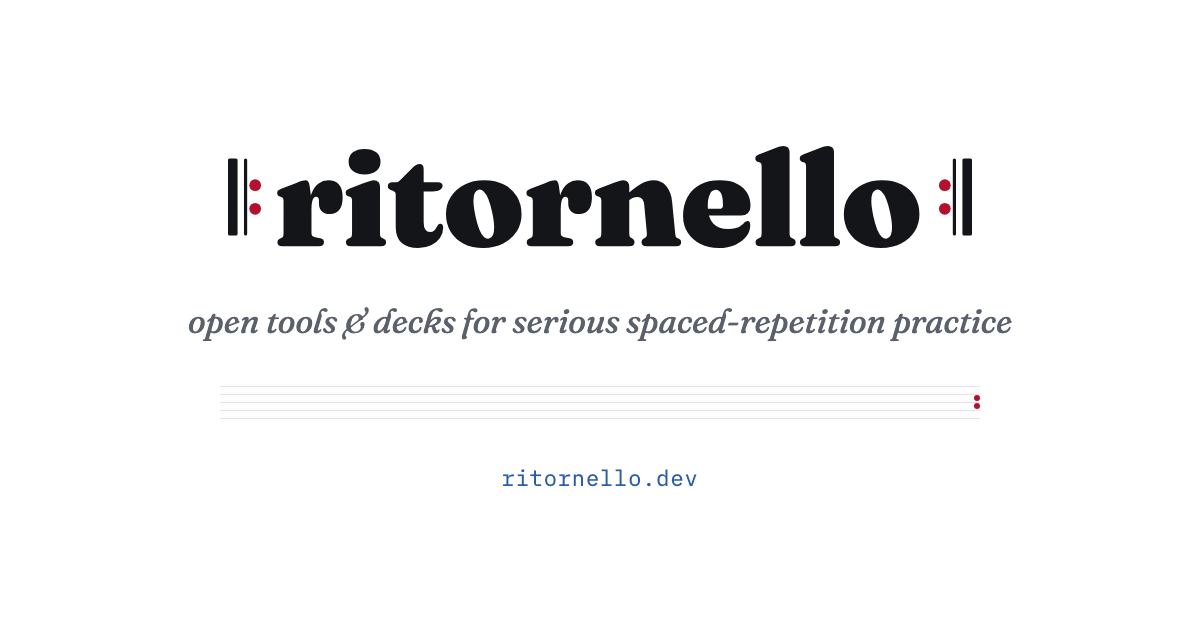
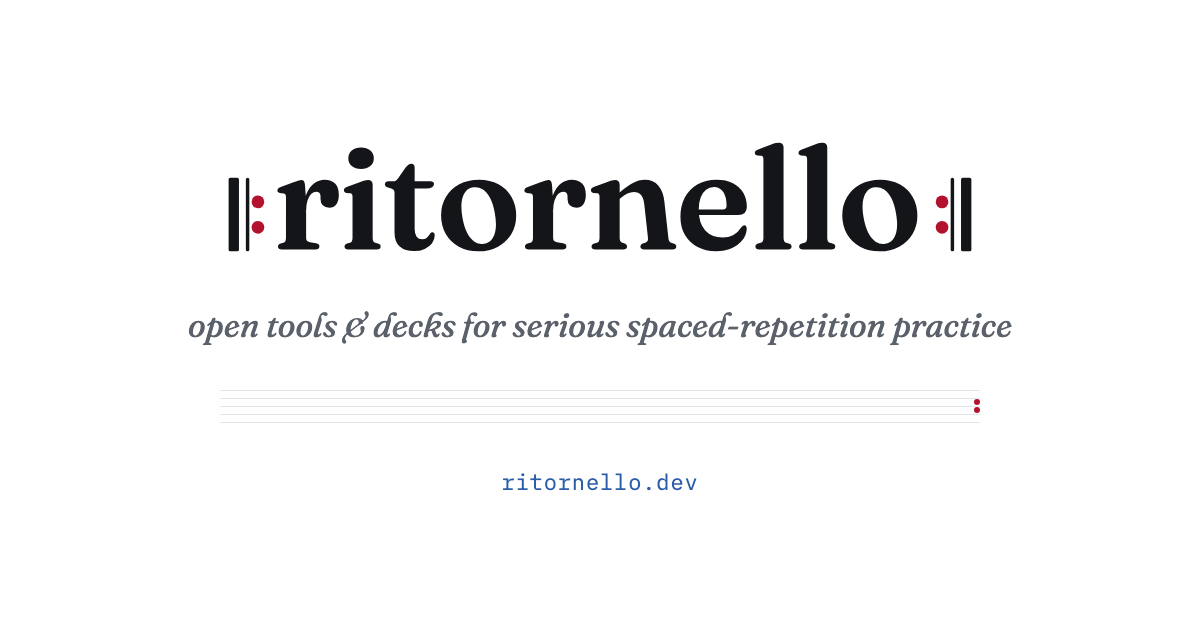
Wordmark V3; shelf reorganized into four categories with hover-peek
New wordmark geometry from ritornello-brand (bars span the x-height band,
dots on the lowercase center — Carolina's critique); OG card regenerated
from it. The deck shelf is now Programme I-IV: Geography (12), Music
(Dictation, finally its own item with screenshot and .apkg link), Chinese
(Traditional from Simplified), History & scripture (Dynasties, Bible
Books). Hovering a category peeks it open; clicking the header keeps it
open.

diff --git a/index.html b/index.html
@@ -220,9 +220,10 @@
       </li>
     </ul>
 
+    <div class="group">
     <h3 class="programme-title">
       <button class="group-toggle" type="button" aria-expanded="false">
-        Programme I — Maps &amp; regions
+        Programme I — Geography
         <span class="group-count">12 decks</span>
         <span class="caret" aria-hidden="true"></span>
       </button>
@@ -417,11 +418,77 @@
     </ul>
     </div>
     </div>
+    </div>
 
+    <div class="group">
     <h3 class="programme-title">
       <button class="group-toggle" type="button" aria-expanded="false">
-        Programme II — Sequences &amp; scripts
-        <span class="group-count">3 decks</span>
+        Programme II — Music
+        <span class="group-count">1 deck</span>
+        <span class="caret" aria-hidden="true"></span>
+      </button>
+    </h3>
+    <div class="group-body">
+    <div class="group-inner">
+    <ul class="pieces pieces-compact">
+      <li class="piece">
+        <div class="piece-grid with-shot">
+          <button class="piece-thumb" type="button" data-full="assets/shots/dictation.webp" aria-label="Enlarge screenshot">
+            <img src="assets/shots/dictation-thumb.webp" alt="Dictation card ready to play a melody for transcription" width="360" loading="lazy">
+          </button>
+          <div class="piece-text">
+            <h3 class="piece-title">Dictation</h3>
+            <p>Hear a melody, transcribe it onto the staff — the listening
+               half of the Sight Singing course.</p>
+            <p class="piece-links">
+              <a href="https://ankiweb.net/shared/info/166250534">AnkiWeb</a>
+              <a href="https://github.com/ritornello-labs/sight-singing-deck">GitHub</a>
+              <a href="https://github.com/ritornello-labs/sight-singing-deck/releases/download/v2026.07.15/dictation-curriculum.apkg">.apkg&nbsp;&#8595;</a>
+            </p>
+          </div>
+        </div>
+      </li>
+    </ul>
+    </div>
+    </div>
+    </div>
+
+    <div class="group">
+    <h3 class="programme-title">
+      <button class="group-toggle" type="button" aria-expanded="false">
+        Programme III — Chinese
+        <span class="group-count">1 deck</span>
+        <span class="caret" aria-hidden="true"></span>
+      </button>
+    </h3>
+    <div class="group-body">
+    <div class="group-inner">
+    <ul class="pieces pieces-compact">
+      <li class="piece">
+        <div class="piece-grid with-shot">
+          <button class="piece-thumb" type="button" data-full="assets/shots/trad-simplified.webp" aria-label="Enlarge screenshot">
+            <img src="assets/shots/trad-simplified-thumb.webp" alt="Traditional-from-simplified character card" width="360" loading="lazy">
+          </button>
+          <div class="piece-text">
+            <h3 class="piece-title">Traditional Chinese from Simplified</h3>
+            <p>Traditional character forms recalled from their simplified
+               counterparts, with audio.</p>
+            <p class="piece-links">
+              <a href="https://ankiweb.net/shared/info/1213301457">AnkiWeb</a>
+            </p>
+          </div>
+        </div>
+      </li>
+    </ul>
+    </div>
+    </div>
+    </div>
+
+    <div class="group">
+    <h3 class="programme-title">
+      <button class="group-toggle" type="button" aria-expanded="false">
+        Programme IV — History &amp; scripture
+        <span class="group-count">2 decks</span>
         <span class="caret" aria-hidden="true"></span>
       </button>
     </h3>
@@ -457,22 +524,8 @@
           </div>
         </div>
       </li>
-      <li class="piece">
-        <div class="piece-grid with-shot">
-          <button class="piece-thumb" type="button" data-full="assets/shots/trad-simplified.webp" aria-label="Enlarge screenshot">
-            <img src="assets/shots/trad-simplified-thumb.webp" alt="Traditional-from-simplified character card" width="360" loading="lazy">
-          </button>
-          <div class="piece-text">
-            <h3 class="piece-title">Traditional Chinese from Simplified</h3>
-            <p>Traditional character forms recalled from their simplified
-               counterparts, with audio.</p>
-            <p class="piece-links">
-              <a href="https://ankiweb.net/shared/info/1213301457">AnkiWeb</a>
-            </p>
-          </div>
-        </div>
-      </li>
     </ul>
+    </div>
     </div>
     </div>
 

diff --git a/styles.css b/styles.css
@@ -368,6 +368,15 @@ a:hover { text-decoration-color: var(--blue); }
   color: color-mix(in srgb, var(--muted) 75%, transparent);
 }
 
+/* hovering anywhere on a deck category peeks it open; clicking the header
+   keeps it open (aria-expanded is the pinned state) */
+@media (hover: hover) {
+  .group:hover .group-body { grid-template-rows: 1fr; }
+  .group:hover .group-toggle { color: var(--blue); }
+  .group:hover .group-toggle .caret { border-top-color: var(--blue); }
+  .group:hover [aria-expanded="false"] .caret { transform: none; }
+}
+
 /* ---------- coda / footer ---------- */
 
 .coda {
